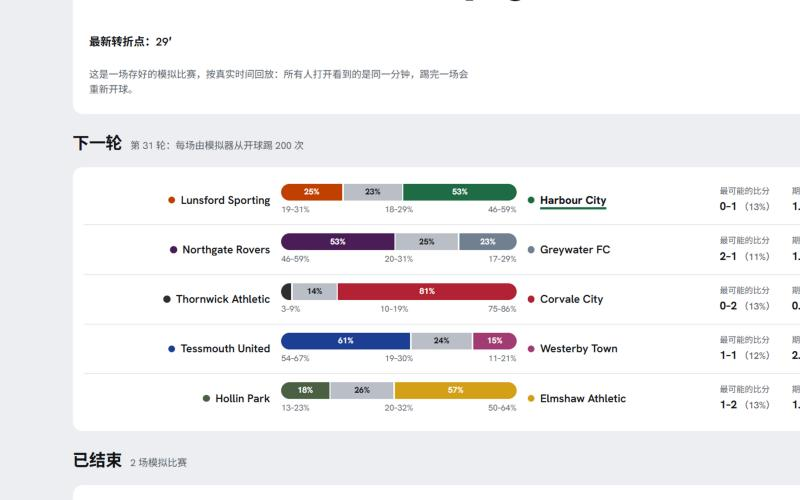
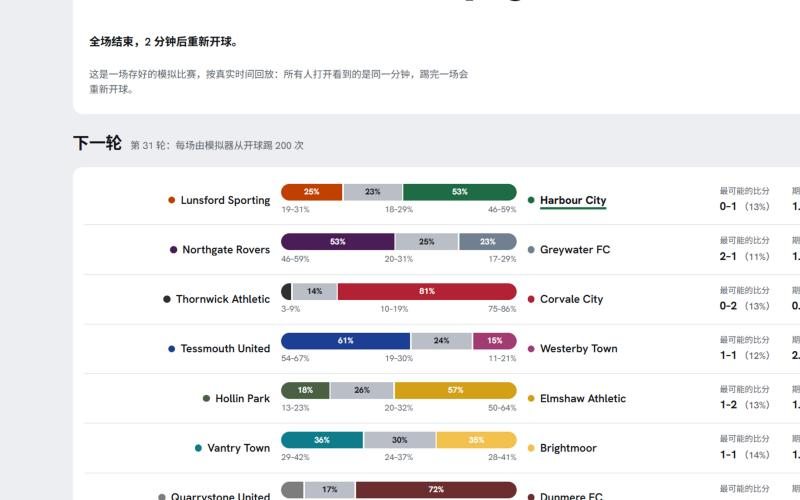
C14: the whole next round, all ten fixtures with their predictions

diff --git a/scripts/make_next_round.py b/scripts/make_next_round.py
@@ -26,17 +26,22 @@ def main() -> None:
     ap.add_argument("--workers", type=int, default=None)
     args = ap.parse_args()
     season = sims._season()
+    version = portable_sim_version()
+    # A fixture already worked out for this simulator and run count is kept (about 3.5 min each on 12 cores).
+    old = json.loads(PATH.read_text(encoding="utf-8")) if PATH.is_file() else {}
+    kept = ({f["match_id"]: f["prediction"] for f in old.get("fixtures", [])}
+            if old.get("sim_version") == version and old.get("n_runs") == args.runs else {})
     out = []
     for fx in fixtures():
         match = next_match(fx, season)
         t0 = time.monotonic()
-        prediction = predict(match, args.runs, args.workers)
+        prediction = kept.get(match.match_id) or predict(match, args.runs, args.workers)
         out.append({"match_id": match.match_id, "home": match.home.club_id, "away": match.away.club_id,
                     "seed": match.seed, "prediction": prediction})
         print(f"{match.match_id}: {prediction['home_win']:.2f} / {prediction['draw']:.2f} / {prediction['away_win']:.2f}"
               f", xG {prediction['xg']['home']}-{prediction['xg']['away']} ({time.monotonic() - t0:.0f} s)", flush=True)
     PATH.parent.mkdir(parents=True, exist_ok=True)
-    data = {"sim_version": portable_sim_version(), "matchday": NEXT_MATCHDAY, "n_runs": args.runs, "fixtures": out}
+    data = {"sim_version": version, "matchday": NEXT_MATCHDAY, "n_runs": args.runs, "fixtures": out}
     PATH.write_text(json.dumps(data, indent=1, ensure_ascii=False) + "\n", encoding="utf-8", newline="\n")
     print(f"wrote {PATH}")
 

diff --git a/apps/api/src/pivot_api/nextround.py b/apps/api/src/pivot_api/nextround.py
@@ -35,14 +35,13 @@ log = logging.getLogger(__name__)
 
 NEXT_MATCHDAY = DEMO_MATCHDAY + 1
 N_RUNS = 200
-SHOWN = 5
+SHOWN = 10                   # the whole round
 TOP_SCORELINES = 3
 PATH = Path(__file__).resolve().parents[4] / "eval" / "fixtures" / "next-round" / f"matchday-{NEXT_MATCHDAY}.json"
 
 
 def fixtures(matchday: int = NEXT_MATCHDAY, shown: int = SHOWN) -> list[Fixture]:
-    """The round's first `shown` fixtures, the site's two clubs' games first (a full match takes about
-    15 s to play, so 200 plays of all ten would take the laptop most of an hour)."""
+    """The round's fixtures (the first `shown`), the site's two clubs' games first."""
     ours = {HBC.club_id, ROV.club_id}
     round_ = sorted((fx for fx in schedule() if fx.matchday == matchday), key=lambda fx: not ({fx.home, fx.away} & ours))
     return round_[:shown]
